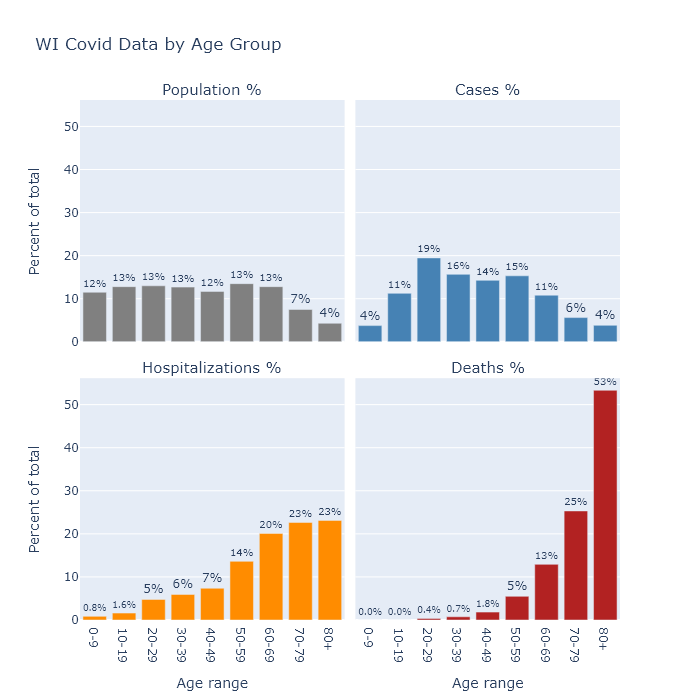
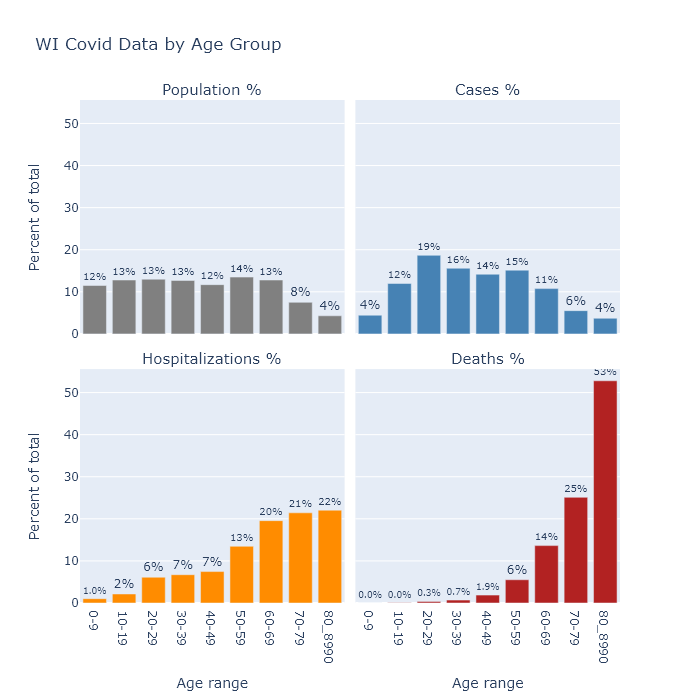
Immunity work

diff --git a/docs/assets/plotly/Age-Covid.html b/docs/assets/plotly/Age-Covid.html
@@ -2,6 +2,6 @@
 <head><meta charset="utf-8" /></head>
 <body>
     <div>                        <script type="text/javascript">window.PlotlyConfig = {MathJaxConfig: 'local'};</script>
-        <script src="https://cdn.plot.ly/plotly-latest.min.js"></script>                <div id="9917ca7c-2897-476b-b947-2d12e7032a52" class="plotly-graph-div" style="height:700px; width:700px;"></div>            <script type="text/javascript">                                    window.PLOTLYENV=window.PLOTLYENV || {};                                    if (document.getElementById("9917ca7c-2897-476b-b947-2d12e7032a52")) {                    Plotly.newPlot(                        "9917ca7c-2897-476b-b947-2d12e7032a52",                        [{"alignmentgroup": "True", "hovertemplate": "=Population %<br>Age range=%{x}<br>Percent of total=%{y}<br>text=%{text}<extra></extra>", "legendgroup": "Population %", "marker": {"color": "gray"}, "name": "Population %", "offsetgroup": "Population %", "orientation": "v", "showlegend": true, "text": ["12%", "13%", "13%", "13%", "12%", "13%", "13%", "7%", "4%"], "textposition": "outside", "type": "bar", "x": ["0-9", "10-19", "20-29", "30-39", "40-49", "50-59", "60-69", "70-79", "80+"], "xaxis": "x3", "y": [11.5, 12.800000000000002, 13.0, 12.700000000000001, 11.700000000000003, 13.499999999999998, 12.799999999999999, 7.499999999999997, 4.299999999999998], "yaxis": "y3"}, {"alignmentgroup": "True", "hovertemplate": "=Cases %<br>Age range=%{x}<br>Percent of total=%{y}<br>text=%{text}<extra></extra>", "legendgroup": "Cases %", "marker": {"color": "steelblue"}, "name": "Cases %", "offsetgroup": "Cases %", "orientation": "v", "showlegend": true, "text": ["4%", "11%", "19%", "16%", "14%", "15%", "11%", "6%", "4%"], "textposition": "outside", "type": "bar", "x": ["0-9", "10-19", "20-29", "30-39", "40-49", "50-59", "60-69", "70-79", "80+"], "xaxis": "x4", "y": [3.7581563813315637, 11.254654206296543, 19.473014819730146, 15.661404187864042, 14.26721595517216, 15.318098871930989, 10.821490451964905, 5.62329499373295, 3.822670131976701], "yaxis": "y4"}, {"alignmentgroup": "True", "hovertemplate": "=Hospitalizations %<br>Age range=%{x}<br>Percent of total=%{y}<br>text=%{text}<extra></extra>", "legendgroup": "Hospitalizations %", "marker": {"color": "darkorange"}, "name": "Hospitalizations %", "offsetgroup": "Hospitalizations %", "orientation": "v", "showlegend": true, "text": ["0.8%", "1.6%", "5%", "6%", "7%", "14%", "20%", "23%", "23%"], "textposition": "outside", "type": "bar", "x": ["0-9", "10-19", "20-29", "30-39", "40-49", "50-59", "60-69", "70-79", "80+"], "xaxis": "x", "y": [0.8454232334829349, 1.6073478760045925, 4.769857008662979, 5.933618620185785, 7.368750652332742, 13.615488988623317, 20.097067111992484, 22.64377413631145, 23.118672372403715], "yaxis": "y"}, {"alignmentgroup": "True", "hovertemplate": "=Deaths %<br>Age range=%{x}<br>Percent of total=%{y}<br>text=%{text}<extra></extra>", "legendgroup": "Deaths %", "marker": {"color": "firebrick"}, "name": "Deaths %", "offsetgroup": "Deaths %", "orientation": "v", "showlegend": true, "text": ["0.0%", "0.0%", "0.4%", "0.7%", "1.8%", "5%", "13%", "25%", "53%"], "textposition": "outside", "type": "bar", "x": ["0-9", "10-19", "20-29", "30-39", "40-49", "50-59", "60-69", "70-79", "80+"], "xaxis": "x2", "y": [0.0, 0.0, 0.3711952487008166, 0.7423904974016332, 1.8312298935906954, 5.4936896807720865, 12.91759465478842, 25.315515961395697, 53.328384063350654], "yaxis": "y2"}],                        {"annotations": [{"font": {"size": 15}, "showarrow": false, "text": "Hospitalizations %", "x": 0.245, "xanchor": "center", "xref": "paper", "y": 0.46499999999999997, "yanchor": "bottom", "yref": "paper"}, {"font": {"size": 15}, "showarrow": false, "text": "Deaths %", "x": 0.755, "xanchor": "center", "xref": "paper", "y": 0.46499999999999997, "yanchor": "bottom", "yref": "paper"}, {"font": {"size": 15}, "showarrow": false, "text": "Population %", "x": 0.245, "xanchor": "center", "xref": "paper", "y": 0.9999999999999999, "yanchor": "bottom", "yref": "paper"}, {"font": {"size": 15}, "showarrow": false, "text": "Cases %", "x": 0.755, "xanchor": "center", "xref": "paper", "y": 0.9999999999999999, "yanchor": "bottom", "yref": "paper"}], "barmode": "relative", "height": 700, "legend": {"title": {"text": ""}, "tracegroupgap": 0}, "showlegend": false, "template": {"data": {"bar": [{"error_x": {"color": "#2a3f5f"}, "error_y": {"color": "#2a3f5f"}, "marker": {"line": {"color": "#E5ECF6", "width": 0.5}}, "type": "bar"}], "barpolar": [{"marker": {"line": {"color": "#E5ECF6", "width": 0.5}}, "type": "barpolar"}], "carpet": [{"aaxis": {"endlinecolor": "#2a3f5f", "gridcolor": "white", "linecolor": "white", "minorgridcolor": "white", "startlinecolor": "#2a3f5f"}, "baxis": {"endlinecolor": "#2a3f5f", "gridcolor": "white", "linecolor": "white", "minorgridcolor": "white", "startlinecolor": "#2a3f5f"}, "type": "carpet"}], "choropleth": [{"colorbar": {"outlinewidth": 0, "ticks": ""}, "type": "choropleth"}], "contour": [{"colorbar": {"outlinewidth": 0, "ticks": ""}, "colorscale": [[0.0, "#0d0887"], [0.1111111111111111, "#46039f"], [0.2222222222222222, "#7201a8"], [0.3333333333333333, "#9c179e"], [0.4444444444444444, "#bd3786"], [0.5555555555555556, "#d8576b"], [0.6666666666666666, "#ed7953"], [0.7777777777777778, "#fb9f3a"], [0.8888888888888888, "#fdca26"], [1.0, "#f0f921"]], "type": "contour"}], "contourcarpet": [{"colorbar": {"outlinewidth": 0, "ticks": ""}, "type": "contourcarpet"}], "heatmap": [{"colorbar": {"outlinewidth": 0, "ticks": ""}, "colorscale": [[0.0, "#0d0887"], [0.1111111111111111, "#46039f"], [0.2222222222222222, "#7201a8"], [0.3333333333333333, "#9c179e"], [0.4444444444444444, "#bd3786"], [0.5555555555555556, "#d8576b"], [0.6666666666666666, "#ed7953"], [0.7777777777777778, "#fb9f3a"], [0.8888888888888888, "#fdca26"], [1.0, "#f0f921"]], "type": "heatmap"}], "heatmapgl": [{"colorbar": {"outlinewidth": 0, "ticks": ""}, "colorscale": [[0.0, "#0d0887"], [0.1111111111111111, "#46039f"], [0.2222222222222222, "#7201a8"], [0.3333333333333333, "#9c179e"], [0.4444444444444444, "#bd3786"], [0.5555555555555556, "#d8576b"], [0.6666666666666666, "#ed7953"], [0.7777777777777778, "#fb9f3a"], [0.8888888888888888, "#fdca26"], [1.0, "#f0f921"]], "type": "heatmapgl"}], "histogram": [{"marker": {"colorbar": {"outlinewidth": 0, "ticks": ""}}, "type": "histogram"}], "histogram2d": [{"colorbar": {"outlinewidth": 0, "ticks": ""}, "colorscale": [[0.0, "#0d0887"], [0.1111111111111111, "#46039f"], [0.2222222222222222, "#7201a8"], [0.3333333333333333, "#9c179e"], [0.4444444444444444, "#bd3786"], [0.5555555555555556, "#d8576b"], [0.6666666666666666, "#ed7953"], [0.7777777777777778, "#fb9f3a"], [0.8888888888888888, "#fdca26"], [1.0, "#f0f921"]], "type": "histogram2d"}], "histogram2dcontour": [{"colorbar": {"outlinewidth": 0, "ticks": ""}, "colorscale": [[0.0, "#0d0887"], [0.1111111111111111, "#46039f"], [0.2222222222222222, "#7201a8"], [0.3333333333333333, "#9c179e"], [0.4444444444444444, "#bd3786"], [0.5555555555555556, "#d8576b"], [0.6666666666666666, "#ed7953"], [0.7777777777777778, "#fb9f3a"], [0.8888888888888888, "#fdca26"], [1.0, "#f0f921"]], "type": "histogram2dcontour"}], "mesh3d": [{"colorbar": {"outlinewidth": 0, "ticks": ""}, "type": "mesh3d"}], "parcoords": [{"line": {"colorbar": {"outlinewidth": 0, "ticks": ""}}, "type": "parcoords"}], "pie": [{"automargin": true, "type": "pie"}], "scatter": [{"marker": {"colorbar": {"outlinewidth": 0, "ticks": ""}}, "type": "scatter"}], "scatter3d": [{"line": {"colorbar": {"outlinewidth": 0, "ticks": ""}}, "marker": {"colorbar": {"outlinewidth": 0, "ticks": ""}}, "type": "scatter3d"}], "scattercarpet": [{"marker": {"colorbar": {"outlinewidth": 0, "ticks": ""}}, "type": "scattercarpet"}], "scattergeo": [{"marker": {"colorbar": {"outlinewidth": 0, "ticks": ""}}, "type": "scattergeo"}], "scattergl": [{"marker": {"colorbar": {"outlinewidth": 0, "ticks": ""}}, "type": "scattergl"}], "scattermapbox": [{"marker": {"colorbar": {"outlinewidth": 0, "ticks": ""}}, "type": "scattermapbox"}], "scatterpolar": [{"marker": {"colorbar": {"outlinewidth": 0, "ticks": ""}}, "type": "scatterpolar"}], "scatterpolargl": [{"marker": {"colorbar": {"outlinewidth": 0, "ticks": ""}}, "type": "scatterpolargl"}], "scatterternary": [{"marker": {"colorbar": {"outlinewidth": 0, "ticks": ""}}, "type": "scatterternary"}], "surface": [{"colorbar": {"outlinewidth": 0, "ticks": ""}, "colorscale": [[0.0, "#0d0887"], [0.1111111111111111, "#46039f"], [0.2222222222222222, "#7201a8"], [0.3333333333333333, "#9c179e"], [0.4444444444444444, "#bd3786"], [0.5555555555555556, "#d8576b"], [0.6666666666666666, "#ed7953"], [0.7777777777777778, "#fb9f3a"], [0.8888888888888888, "#fdca26"], [1.0, "#f0f921"]], "type": "surface"}], "table": [{"cells": {"fill": {"color": "#EBF0F8"}, "line": {"color": "white"}}, "header": {"fill": {"color": "#C8D4E3"}, "line": {"color": "white"}}, "type": "table"}]}, "layout": {"annotationdefaults": {"arrowcolor": "#2a3f5f", "arrowhead": 0, "arrowwidth": 1}, "coloraxis": {"colorbar": {"outlinewidth": 0, "ticks": ""}}, "colorscale": {"diverging": [[0, "#8e0152"], [0.1, "#c51b7d"], [0.2, "#de77ae"], [0.3, "#f1b6da"], [0.4, "#fde0ef"], [0.5, "#f7f7f7"], [0.6, "#e6f5d0"], [0.7, "#b8e186"], [0.8, "#7fbc41"], [0.9, "#4d9221"], [1, "#276419"]], "sequential": [[0.0, "#0d0887"], [0.1111111111111111, "#46039f"], [0.2222222222222222, "#7201a8"], [0.3333333333333333, "#9c179e"], [0.4444444444444444, "#bd3786"], [0.5555555555555556, "#d8576b"], [0.6666666666666666, "#ed7953"], [0.7777777777777778, "#fb9f3a"], [0.8888888888888888, "#fdca26"], [1.0, "#f0f921"]], "sequentialminus": [[0.0, "#0d0887"], [0.1111111111111111, "#46039f"], [0.2222222222222222, "#7201a8"], [0.3333333333333333, "#9c179e"], [0.4444444444444444, "#bd3786"], [0.5555555555555556, "#d8576b"], [0.6666666666666666, "#ed7953"], [0.7777777777777778, "#fb9f3a"], [0.8888888888888888, "#fdca26"], [1.0, "#f0f921"]]}, "colorway": ["#636efa", "#EF553B", "#00cc96", "#ab63fa", "#FFA15A", "#19d3f3", "#FF6692", "#B6E880", "#FF97FF", "#FECB52"], "font": {"color": "#2a3f5f"}, "geo": {"bgcolor": "white", "lakecolor": "white", "landcolor": "#E5ECF6", "showlakes": true, "showland": true, "subunitcolor": "white"}, "hoverlabel": {"align": "left"}, "hovermode": "closest", "mapbox": {"style": "light"}, "paper_bgcolor": "white", "plot_bgcolor": "#E5ECF6", "polar": {"angularaxis": {"gridcolor": "white", "linecolor": "white", "ticks": ""}, "bgcolor": "#E5ECF6", "radialaxis": {"gridcolor": "white", "linecolor": "white", "ticks": ""}}, "scene": {"xaxis": {"backgroundcolor": "#E5ECF6", "gridcolor": "white", "gridwidth": 2, "linecolor": "white", "showbackground": true, "ticks": "", "zerolinecolor": "white"}, "yaxis": {"backgroundcolor": "#E5ECF6", "gridcolor": "white", "gridwidth": 2, "linecolor": "white", "showbackground": true, "ticks": "", "zerolinecolor": "white"}, "zaxis": {"backgroundcolor": "#E5ECF6", "gridcolor": "white", "gridwidth": 2, "linecolor": "white", "showbackground": true, "ticks": "", "zerolinecolor": "white"}}, "shapedefaults": {"line": {"color": "#2a3f5f"}}, "ternary": {"aaxis": {"gridcolor": "white", "linecolor": "white", "ticks": ""}, "baxis": {"gridcolor": "white", "linecolor": "white", "ticks": ""}, "bgcolor": "#E5ECF6", "caxis": {"gridcolor": "white", "linecolor": "white", "ticks": ""}}, "title": {"x": 0.05}, "xaxis": {"automargin": true, "gridcolor": "white", "linecolor": "white", "ticks": "", "title": {"standoff": 15}, "zerolinecolor": "white", "zerolinewidth": 2}, "yaxis": {"automargin": true, "gridcolor": "white", "linecolor": "white", "ticks": "", "title": {"standoff": 15}, "zerolinecolor": "white", "zerolinewidth": 2}}}, "title": {"text": "WI Covid Data by Age Group"}, "width": 700, "xaxis": {"anchor": "y", "domain": [0.0, 0.49], "title": {"text": "Age range"}}, "xaxis2": {"anchor": "y2", "domain": [0.51, 1.0], "matches": "x", "title": {"text": "Age range"}}, "xaxis3": {"anchor": "y3", "domain": [0.0, 0.49], "matches": "x", "showticklabels": false}, "xaxis4": {"anchor": "y4", "domain": [0.51, 1.0], "matches": "x", "showticklabels": false}, "yaxis": {"anchor": "x", "domain": [0.0, 0.46499999999999997], "title": {"text": "Percent of total"}}, "yaxis2": {"anchor": "x2", "domain": [0.0, 0.46499999999999997], "matches": "y", "showticklabels": false}, "yaxis3": {"anchor": "x3", "domain": [0.5349999999999999, 0.9999999999999999], "matches": "y", "title": {"text": "Percent of total"}}, "yaxis4": {"anchor": "x4", "domain": [0.5349999999999999, 0.9999999999999999], "matches": "y", "showticklabels": false}},                        {"responsive": true}                    )                };                            </script>        </div>
+        <script src="https://cdn.plot.ly/plotly-latest.min.js"></script>                <div id="8a8da3e6-ef29-4c8c-ae2a-e675b4a42599" class="plotly-graph-div" style="height:700px; width:700px;"></div>            <script type="text/javascript">                                    window.PLOTLYENV=window.PLOTLYENV || {};                                    if (document.getElementById("8a8da3e6-ef29-4c8c-ae2a-e675b4a42599")) {                    Plotly.newPlot(                        "8a8da3e6-ef29-4c8c-ae2a-e675b4a42599",                        [{"alignmentgroup": "True", "hovertemplate": "=Population %<br>Age range=%{x}<br>Percent of total=%{y}<br>text=%{text}<extra></extra>", "legendgroup": "Population %", "marker": {"color": "gray"}, "name": "Population %", "offsetgroup": "Population %", "orientation": "v", "showlegend": true, "text": ["12%", "13%", "13%", "13%", "12%", "14%", "13%", "8%", "4%"], "textposition": "outside", "type": "bar", "x": ["0-9", "10-19", "20-29", "30-39", "40-49", "50-59", "60-69", "70-79", "80_8990"], "xaxis": "x3", "y": [11.5, 12.8, 13.0, 12.7, 11.7, 13.5, 12.8, 7.5, 4.300000000000001], "yaxis": "y3"}, {"alignmentgroup": "True", "hovertemplate": "=Cases %<br>Age range=%{x}<br>Percent of total=%{y}<br>text=%{text}<extra></extra>", "legendgroup": "Cases %", "marker": {"color": "steelblue"}, "name": "Cases %", "offsetgroup": "Cases %", "orientation": "v", "showlegend": true, "text": ["4%", "12%", "19%", "16%", "14%", "15%", "11%", "6%", "4%"], "textposition": "outside", "type": "bar", "x": ["0-9", "10-19", "20-29", "30-39", "40-49", "50-59", "60-69", "70-79", "80_8990"], "xaxis": "x4", "y": [4.440024001907001, 11.976129610297805, 18.667565368207338, 15.59482808223119, 14.17624961983281, 15.147504870249964, 10.762224943899652, 5.522904559540347, 3.712568943833894], "yaxis": "y4"}, {"alignmentgroup": "True", "hovertemplate": "=Hospitalizations %<br>Age range=%{x}<br>Percent of total=%{y}<br>text=%{text}<extra></extra>", "legendgroup": "Hospitalizations %", "marker": {"color": "darkorange"}, "name": "Hospitalizations %", "offsetgroup": "Hospitalizations %", "orientation": "v", "showlegend": true, "text": ["1.0%", "2%", "6%", "7%", "7%", "13%", "20%", "21%", "22%"], "textposition": "outside", "type": "bar", "x": ["0-9", "10-19", "20-29", "30-39", "40-49", "50-59", "60-69", "70-79", "80_8990"], "xaxis": "x", "y": [1.0222077073807967, 2.1423905943827566, 6.12018288700196, 6.721097322011757, 7.468974526453298, 13.474853037230568, 19.568909209666884, 21.427171783148268, 22.05421293272371], "yaxis": "y"}, {"alignmentgroup": "True", "hovertemplate": "=Deaths %<br>Age range=%{x}<br>Percent of total=%{y}<br>text=%{text}<extra></extra>", "legendgroup": "Deaths %", "marker": {"color": "firebrick"}, "name": "Deaths %", "offsetgroup": "Deaths %", "orientation": "v", "showlegend": true, "text": ["0.0%", "0.0%", "0.3%", "0.7%", "1.9%", "6%", "14%", "25%", "53%"], "textposition": "outside", "type": "bar", "x": ["0-9", "10-19", "20-29", "30-39", "40-49", "50-59", "60-69", "70-79", "80_8990"], "xaxis": "x2", "y": [0.0, 0.042924595793389614, 0.3290885677493204, 0.6867935326942338, 1.8743740163113465, 5.522964658749464, 13.6357132637001, 25.110888539132926, 52.79725282586922], "yaxis": "y2"}],                        {"annotations": [{"font": {"size": 15}, "showarrow": false, "text": "Hospitalizations %", "x": 0.245, "xanchor": "center", "xref": "paper", "y": 0.46499999999999997, "yanchor": "bottom", "yref": "paper"}, {"font": {"size": 15}, "showarrow": false, "text": "Deaths %", "x": 0.755, "xanchor": "center", "xref": "paper", "y": 0.46499999999999997, "yanchor": "bottom", "yref": "paper"}, {"font": {"size": 15}, "showarrow": false, "text": "Population %", "x": 0.245, "xanchor": "center", "xref": "paper", "y": 0.9999999999999999, "yanchor": "bottom", "yref": "paper"}, {"font": {"size": 15}, "showarrow": false, "text": "Cases %", "x": 0.755, "xanchor": "center", "xref": "paper", "y": 0.9999999999999999, "yanchor": "bottom", "yref": "paper"}], "barmode": "relative", "height": 700, "legend": {"title": {"text": ""}, "tracegroupgap": 0}, "showlegend": false, "template": {"data": {"bar": [{"error_x": {"color": "#2a3f5f"}, "error_y": {"color": "#2a3f5f"}, "marker": {"line": {"color": "#E5ECF6", "width": 0.5}}, "type": "bar"}], "barpolar": [{"marker": {"line": {"color": "#E5ECF6", "width": 0.5}}, "type": "barpolar"}], "carpet": [{"aaxis": {"endlinecolor": "#2a3f5f", "gridcolor": "white", "linecolor": "white", "minorgridcolor": "white", "startlinecolor": "#2a3f5f"}, "baxis": {"endlinecolor": "#2a3f5f", "gridcolor": "white", "linecolor": "white", "minorgridcolor": "white", "startlinecolor": "#2a3f5f"}, "type": "carpet"}], "choropleth": [{"colorbar": {"outlinewidth": 0, "ticks": ""}, "type": "choropleth"}], "contour": [{"colorbar": {"outlinewidth": 0, "ticks": ""}, "colorscale": [[0.0, "#0d0887"], [0.1111111111111111, "#46039f"], [0.2222222222222222, "#7201a8"], [0.3333333333333333, "#9c179e"], [0.4444444444444444, "#bd3786"], [0.5555555555555556, "#d8576b"], [0.6666666666666666, "#ed7953"], [0.7777777777777778, "#fb9f3a"], [0.8888888888888888, "#fdca26"], [1.0, "#f0f921"]], "type": "contour"}], "contourcarpet": [{"colorbar": {"outlinewidth": 0, "ticks": ""}, "type": "contourcarpet"}], "heatmap": [{"colorbar": {"outlinewidth": 0, "ticks": ""}, "colorscale": [[0.0, "#0d0887"], [0.1111111111111111, "#46039f"], [0.2222222222222222, "#7201a8"], [0.3333333333333333, "#9c179e"], [0.4444444444444444, "#bd3786"], [0.5555555555555556, "#d8576b"], [0.6666666666666666, "#ed7953"], [0.7777777777777778, "#fb9f3a"], [0.8888888888888888, "#fdca26"], [1.0, "#f0f921"]], "type": "heatmap"}], "heatmapgl": [{"colorbar": {"outlinewidth": 0, "ticks": ""}, "colorscale": [[0.0, "#0d0887"], [0.1111111111111111, "#46039f"], [0.2222222222222222, "#7201a8"], [0.3333333333333333, "#9c179e"], [0.4444444444444444, "#bd3786"], [0.5555555555555556, "#d8576b"], [0.6666666666666666, "#ed7953"], [0.7777777777777778, "#fb9f3a"], [0.8888888888888888, "#fdca26"], [1.0, "#f0f921"]], "type": "heatmapgl"}], "histogram": [{"marker": {"colorbar": {"outlinewidth": 0, "ticks": ""}}, "type": "histogram"}], "histogram2d": [{"colorbar": {"outlinewidth": 0, "ticks": ""}, "colorscale": [[0.0, "#0d0887"], [0.1111111111111111, "#46039f"], [0.2222222222222222, "#7201a8"], [0.3333333333333333, "#9c179e"], [0.4444444444444444, "#bd3786"], [0.5555555555555556, "#d8576b"], [0.6666666666666666, "#ed7953"], [0.7777777777777778, "#fb9f3a"], [0.8888888888888888, "#fdca26"], [1.0, "#f0f921"]], "type": "histogram2d"}], "histogram2dcontour": [{"colorbar": {"outlinewidth": 0, "ticks": ""}, "colorscale": [[0.0, "#0d0887"], [0.1111111111111111, "#46039f"], [0.2222222222222222, "#7201a8"], [0.3333333333333333, "#9c179e"], [0.4444444444444444, "#bd3786"], [0.5555555555555556, "#d8576b"], [0.6666666666666666, "#ed7953"], [0.7777777777777778, "#fb9f3a"], [0.8888888888888888, "#fdca26"], [1.0, "#f0f921"]], "type": "histogram2dcontour"}], "mesh3d": [{"colorbar": {"outlinewidth": 0, "ticks": ""}, "type": "mesh3d"}], "parcoords": [{"line": {"colorbar": {"outlinewidth": 0, "ticks": ""}}, "type": "parcoords"}], "pie": [{"automargin": true, "type": "pie"}], "scatter": [{"marker": {"colorbar": {"outlinewidth": 0, "ticks": ""}}, "type": "scatter"}], "scatter3d": [{"line": {"colorbar": {"outlinewidth": 0, "ticks": ""}}, "marker": {"colorbar": {"outlinewidth": 0, "ticks": ""}}, "type": "scatter3d"}], "scattercarpet": [{"marker": {"colorbar": {"outlinewidth": 0, "ticks": ""}}, "type": "scattercarpet"}], "scattergeo": [{"marker": {"colorbar": {"outlinewidth": 0, "ticks": ""}}, "type": "scattergeo"}], "scattergl": [{"marker": {"colorbar": {"outlinewidth": 0, "ticks": ""}}, "type": "scattergl"}], "scattermapbox": [{"marker": {"colorbar": {"outlinewidth": 0, "ticks": ""}}, "type": "scattermapbox"}], "scatterpolar": [{"marker": {"colorbar": {"outlinewidth": 0, "ticks": ""}}, "type": "scatterpolar"}], "scatterpolargl": [{"marker": {"colorbar": {"outlinewidth": 0, "ticks": ""}}, "type": "scatterpolargl"}], "scatterternary": [{"marker": {"colorbar": {"outlinewidth": 0, "ticks": ""}}, "type": "scatterternary"}], "surface": [{"colorbar": {"outlinewidth": 0, "ticks": ""}, "colorscale": [[0.0, "#0d0887"], [0.1111111111111111, "#46039f"], [0.2222222222222222, "#7201a8"], [0.3333333333333333, "#9c179e"], [0.4444444444444444, "#bd3786"], [0.5555555555555556, "#d8576b"], [0.6666666666666666, "#ed7953"], [0.7777777777777778, "#fb9f3a"], [0.8888888888888888, "#fdca26"], [1.0, "#f0f921"]], "type": "surface"}], "table": [{"cells": {"fill": {"color": "#EBF0F8"}, "line": {"color": "white"}}, "header": {"fill": {"color": "#C8D4E3"}, "line": {"color": "white"}}, "type": "table"}]}, "layout": {"annotationdefaults": {"arrowcolor": "#2a3f5f", "arrowhead": 0, "arrowwidth": 1}, "autotypenumbers": "strict", "coloraxis": {"colorbar": {"outlinewidth": 0, "ticks": ""}}, "colorscale": {"diverging": [[0, "#8e0152"], [0.1, "#c51b7d"], [0.2, "#de77ae"], [0.3, "#f1b6da"], [0.4, "#fde0ef"], [0.5, "#f7f7f7"], [0.6, "#e6f5d0"], [0.7, "#b8e186"], [0.8, "#7fbc41"], [0.9, "#4d9221"], [1, "#276419"]], "sequential": [[0.0, "#0d0887"], [0.1111111111111111, "#46039f"], [0.2222222222222222, "#7201a8"], [0.3333333333333333, "#9c179e"], [0.4444444444444444, "#bd3786"], [0.5555555555555556, "#d8576b"], [0.6666666666666666, "#ed7953"], [0.7777777777777778, "#fb9f3a"], [0.8888888888888888, "#fdca26"], [1.0, "#f0f921"]], "sequentialminus": [[0.0, "#0d0887"], [0.1111111111111111, "#46039f"], [0.2222222222222222, "#7201a8"], [0.3333333333333333, "#9c179e"], [0.4444444444444444, "#bd3786"], [0.5555555555555556, "#d8576b"], [0.6666666666666666, "#ed7953"], [0.7777777777777778, "#fb9f3a"], [0.8888888888888888, "#fdca26"], [1.0, "#f0f921"]]}, "colorway": ["#636efa", "#EF553B", "#00cc96", "#ab63fa", "#FFA15A", "#19d3f3", "#FF6692", "#B6E880", "#FF97FF", "#FECB52"], "font": {"color": "#2a3f5f"}, "geo": {"bgcolor": "white", "lakecolor": "white", "landcolor": "#E5ECF6", "showlakes": true, "showland": true, "subunitcolor": "white"}, "hoverlabel": {"align": "left"}, "hovermode": "closest", "mapbox": {"style": "light"}, "paper_bgcolor": "white", "plot_bgcolor": "#E5ECF6", "polar": {"angularaxis": {"gridcolor": "white", "linecolor": "white", "ticks": ""}, "bgcolor": "#E5ECF6", "radialaxis": {"gridcolor": "white", "linecolor": "white", "ticks": ""}}, "scene": {"xaxis": {"backgroundcolor": "#E5ECF6", "gridcolor": "white", "gridwidth": 2, "linecolor": "white", "showbackground": true, "ticks": "", "zerolinecolor": "white"}, "yaxis": {"backgroundcolor": "#E5ECF6", "gridcolor": "white", "gridwidth": 2, "linecolor": "white", "showbackground": true, "ticks": "", "zerolinecolor": "white"}, "zaxis": {"backgroundcolor": "#E5ECF6", "gridcolor": "white", "gridwidth": 2, "linecolor": "white", "showbackground": true, "ticks": "", "zerolinecolor": "white"}}, "shapedefaults": {"line": {"color": "#2a3f5f"}}, "ternary": {"aaxis": {"gridcolor": "white", "linecolor": "white", "ticks": ""}, "baxis": {"gridcolor": "white", "linecolor": "white", "ticks": ""}, "bgcolor": "#E5ECF6", "caxis": {"gridcolor": "white", "linecolor": "white", "ticks": ""}}, "title": {"x": 0.05}, "xaxis": {"automargin": true, "gridcolor": "white", "linecolor": "white", "ticks": "", "title": {"standoff": 15}, "zerolinecolor": "white", "zerolinewidth": 2}, "yaxis": {"automargin": true, "gridcolor": "white", "linecolor": "white", "ticks": "", "title": {"standoff": 15}, "zerolinecolor": "white", "zerolinewidth": 2}}}, "title": {"text": "WI Covid Data by Age Group"}, "width": 700, "xaxis": {"anchor": "y", "domain": [0.0, 0.49], "title": {"text": "Age range"}}, "xaxis2": {"anchor": "y2", "domain": [0.51, 1.0], "matches": "x", "title": {"text": "Age range"}}, "xaxis3": {"anchor": "y3", "domain": [0.0, 0.49], "matches": "x", "showticklabels": false}, "xaxis4": {"anchor": "y4", "domain": [0.51, 1.0], "matches": "x", "showticklabels": false}, "yaxis": {"anchor": "x", "domain": [0.0, 0.46499999999999997], "title": {"text": "Percent of total"}}, "yaxis2": {"anchor": "x2", "domain": [0.0, 0.46499999999999997], "matches": "y", "showticklabels": false}, "yaxis3": {"anchor": "x3", "domain": [0.5349999999999999, 0.9999999999999999], "matches": "y", "title": {"text": "Percent of total"}}, "yaxis4": {"anchor": "x4", "domain": [0.5349999999999999, 0.9999999999999999], "matches": "y", "showticklabels": false}},                        {"responsive": true}                    )                };                            </script>        </div>
 </body>
 </html>

diff --git a/docs/assets/plotly/Immune-Age.html b/docs/assets/plotly/Immune-Age.html
@@ -1,0 +1,7 @@
+<html>
+<head><meta charset="utf-8" /></head>
+<body>
+    <div>                        <script type="text/javascript">window.PlotlyConfig = {MathJaxConfig: 'local'};</script>
+        <script src="https://cdn.plot.ly/plotly-latest.min.js"></script>                <div id="b234c150-d046-4712-80d0-b249274c89f9" class="plotly-graph-div" style="height:700px; width:700px;"></div>            <script type="text/javascript">                                    window.PLOTLYENV=window.PLOTLYENV || {};                                    if (document.getElementById("b234c150-d046-4712-80d0-b249274c89f9")) {                    Plotly.newPlot(                        "b234c150-d046-4712-80d0-b249274c89f9",                        [{"alignmentgroup": "True", "hovertemplate": "=Vax only %<br>Age group=%{x}<br>Percent of total=%{y}<br>Label=%{text}<extra></extra>", "legendgroup": "Vax only %", "marker": {"color": "seagreen"}, "name": "Vax only %", "offsetgroup": "Vax only %", "orientation": "v", "showlegend": true, "text": ["", "", "", "", "", "", ""], "textposition": "outside", "type": "bar", "x": ["<18", "18-24", "25-34", "35-44", "45-54", "55-64", "65+"], "xaxis": "x", "y": [5.399410109253805, 19.325796398050556, 25.34057723824802, 31.944734714497933, 33.14435045495925, 44.65150184121229, 64.12566165815878], "yaxis": "y"}, {"alignmentgroup": "True", "hovertemplate": "=Vax+Inf %<br>Age group=%{x}<br>Percent of total=%{y}<br>Label=%{text}<extra></extra>", "legendgroup": "Vax+Inf %", "marker": {"color": "darkslategray"}, "name": "Vax+Inf %", "offsetgroup": "Vax+Inf %", "orientation": "v", "showlegend": true, "text": ["", "", "", "", "", "", ""], "textposition": "outside", "type": "bar", "x": ["<18", "18-24", "25-34", "35-44", "45-54", "55-64", "65+"], "xaxis": "x", "y": [1.169030372532977, 17.159043871089423, 17.846914998317292, 19.99304495491905, 18.71438408399059, 19.938813500587536, 21.671920770183146], "yaxis": "y"}, {"alignmentgroup": "True", "hovertemplate": "=Inf Only %<br>Age group=%{x}<br>Percent of total=%{y}<br>Label=%{text}<extra></extra>", "legendgroup": "Inf Only %", "marker": {"color": "steelblue"}, "name": "Inf Only %", "offsetgroup": "Inf Only %", "orientation": "v", "showlegend": true, "text": ["23%", "66%", "67%", "70%", "69%", "76%", "89%"], "textposition": "outside", "type": "bar", "x": ["<18", "18-24", "25-34", "35-44", "45-54", "55-64", "65+"], "xaxis": "x", "y": [16.628655025919034, 29.871568691583846, 23.47735291832489, 18.501178483538304, 17.372852232843687, 10.930850775047407, 3.5874398747202427], "yaxis": "y"}],                        {"barmode": "relative", "height": 700, "legend": {"title": {"text": ""}, "tracegroupgap": 0}, "showlegend": true, "template": {"data": {"bar": [{"error_x": {"color": "#2a3f5f"}, "error_y": {"color": "#2a3f5f"}, "marker": {"line": {"color": "#E5ECF6", "width": 0.5}}, "type": "bar"}], "barpolar": [{"marker": {"line": {"color": "#E5ECF6", "width": 0.5}}, "type": "barpolar"}], "carpet": [{"aaxis": {"endlinecolor": "#2a3f5f", "gridcolor": "white", "linecolor": "white", "minorgridcolor": "white", "startlinecolor": "#2a3f5f"}, "baxis": {"endlinecolor": "#2a3f5f", "gridcolor": "white", "linecolor": "white", "minorgridcolor": "white", "startlinecolor": "#2a3f5f"}, "type": "carpet"}], "choropleth": [{"colorbar": {"outlinewidth": 0, "ticks": ""}, "type": "choropleth"}], "contour": [{"colorbar": {"outlinewidth": 0, "ticks": ""}, "colorscale": [[0.0, "#0d0887"], [0.1111111111111111, "#46039f"], [0.2222222222222222, "#7201a8"], [0.3333333333333333, "#9c179e"], [0.4444444444444444, "#bd3786"], [0.5555555555555556, "#d8576b"], [0.6666666666666666, "#ed7953"], [0.7777777777777778, "#fb9f3a"], [0.8888888888888888, "#fdca26"], [1.0, "#f0f921"]], "type": "contour"}], "contourcarpet": [{"colorbar": {"outlinewidth": 0, "ticks": ""}, "type": "contourcarpet"}], "heatmap": [{"colorbar": {"outlinewidth": 0, "ticks": ""}, "colorscale": [[0.0, "#0d0887"], [0.1111111111111111, "#46039f"], [0.2222222222222222, "#7201a8"], [0.3333333333333333, "#9c179e"], [0.4444444444444444, "#bd3786"], [0.5555555555555556, "#d8576b"], [0.6666666666666666, "#ed7953"], [0.7777777777777778, "#fb9f3a"], [0.8888888888888888, "#fdca26"], [1.0, "#f0f921"]], "type": "heatmap"}], "heatmapgl": [{"colorbar": {"outlinewidth": 0, "ticks": ""}, "colorscale": [[0.0, "#0d0887"], [0.1111111111111111, "#46039f"], [0.2222222222222222, "#7201a8"], [0.3333333333333333, "#9c179e"], [0.4444444444444444, "#bd3786"], [0.5555555555555556, "#d8576b"], [0.6666666666666666, "#ed7953"], [0.7777777777777778, "#fb9f3a"], [0.8888888888888888, "#fdca26"], [1.0, "#f0f921"]], "type": "heatmapgl"}], "histogram": [{"marker": {"colorbar": {"outlinewidth": 0, "ticks": ""}}, "type": "histogram"}], "histogram2d": [{"colorbar": {"outlinewidth": 0, "ticks": ""}, "colorscale": [[0.0, "#0d0887"], [0.1111111111111111, "#46039f"], [0.2222222222222222, "#7201a8"], [0.3333333333333333, "#9c179e"], [0.4444444444444444, "#bd3786"], [0.5555555555555556, "#d8576b"], [0.6666666666666666, "#ed7953"], [0.7777777777777778, "#fb9f3a"], [0.8888888888888888, "#fdca26"], [1.0, "#f0f921"]], "type": "histogram2d"}], "histogram2dcontour": [{"colorbar": {"outlinewidth": 0, "ticks": ""}, "colorscale": [[0.0, "#0d0887"], [0.1111111111111111, "#46039f"], [0.2222222222222222, "#7201a8"], [0.3333333333333333, "#9c179e"], [0.4444444444444444, "#bd3786"], [0.5555555555555556, "#d8576b"], [0.6666666666666666, "#ed7953"], [0.7777777777777778, "#fb9f3a"], [0.8888888888888888, "#fdca26"], [1.0, "#f0f921"]], "type": "histogram2dcontour"}], "mesh3d": [{"colorbar": {"outlinewidth": 0, "ticks": ""}, "type": "mesh3d"}], "parcoords": [{"line": {"colorbar": {"outlinewidth": 0, "ticks": ""}}, "type": "parcoords"}], "pie": [{"automargin": true, "type": "pie"}], "scatter": [{"marker": {"colorbar": {"outlinewidth": 0, "ticks": ""}}, "type": "scatter"}], "scatter3d": [{"line": {"colorbar": {"outlinewidth": 0, "ticks": ""}}, "marker": {"colorbar": {"outlinewidth": 0, "ticks": ""}}, "type": "scatter3d"}], "scattercarpet": [{"marker": {"colorbar": {"outlinewidth": 0, "ticks": ""}}, "type": "scattercarpet"}], "scattergeo": [{"marker": {"colorbar": {"outlinewidth": 0, "ticks": ""}}, "type": "scattergeo"}], "scattergl": [{"marker": {"colorbar": {"outlinewidth": 0, "ticks": ""}}, "type": "scattergl"}], "scattermapbox": [{"marker": {"colorbar": {"outlinewidth": 0, "ticks": ""}}, "type": "scattermapbox"}], "scatterpolar": [{"marker": {"colorbar": {"outlinewidth": 0, "ticks": ""}}, "type": "scatterpolar"}], "scatterpolargl": [{"marker": {"colorbar": {"outlinewidth": 0, "ticks": ""}}, "type": "scatterpolargl"}], "scatterternary": [{"marker": {"colorbar": {"outlinewidth": 0, "ticks": ""}}, "type": "scatterternary"}], "surface": [{"colorbar": {"outlinewidth": 0, "ticks": ""}, "colorscale": [[0.0, "#0d0887"], [0.1111111111111111, "#46039f"], [0.2222222222222222, "#7201a8"], [0.3333333333333333, "#9c179e"], [0.4444444444444444, "#bd3786"], [0.5555555555555556, "#d8576b"], [0.6666666666666666, "#ed7953"], [0.7777777777777778, "#fb9f3a"], [0.8888888888888888, "#fdca26"], [1.0, "#f0f921"]], "type": "surface"}], "table": [{"cells": {"fill": {"color": "#EBF0F8"}, "line": {"color": "white"}}, "header": {"fill": {"color": "#C8D4E3"}, "line": {"color": "white"}}, "type": "table"}]}, "layout": {"annotationdefaults": {"arrowcolor": "#2a3f5f", "arrowhead": 0, "arrowwidth": 1}, "autotypenumbers": "strict", "coloraxis": {"colorbar": {"outlinewidth": 0, "ticks": ""}}, "colorscale": {"diverging": [[0, "#8e0152"], [0.1, "#c51b7d"], [0.2, "#de77ae"], [0.3, "#f1b6da"], [0.4, "#fde0ef"], [0.5, "#f7f7f7"], [0.6, "#e6f5d0"], [0.7, "#b8e186"], [0.8, "#7fbc41"], [0.9, "#4d9221"], [1, "#276419"]], "sequential": [[0.0, "#0d0887"], [0.1111111111111111, "#46039f"], [0.2222222222222222, "#7201a8"], [0.3333333333333333, "#9c179e"], [0.4444444444444444, "#bd3786"], [0.5555555555555556, "#d8576b"], [0.6666666666666666, "#ed7953"], [0.7777777777777778, "#fb9f3a"], [0.8888888888888888, "#fdca26"], [1.0, "#f0f921"]], "sequentialminus": [[0.0, "#0d0887"], [0.1111111111111111, "#46039f"], [0.2222222222222222, "#7201a8"], [0.3333333333333333, "#9c179e"], [0.4444444444444444, "#bd3786"], [0.5555555555555556, "#d8576b"], [0.6666666666666666, "#ed7953"], [0.7777777777777778, "#fb9f3a"], [0.8888888888888888, "#fdca26"], [1.0, "#f0f921"]]}, "colorway": ["#636efa", "#EF553B", "#00cc96", "#ab63fa", "#FFA15A", "#19d3f3", "#FF6692", "#B6E880", "#FF97FF", "#FECB52"], "font": {"color": "#2a3f5f"}, "geo": {"bgcolor": "white", "lakecolor": "white", "landcolor": "#E5ECF6", "showlakes": true, "showland": true, "subunitcolor": "white"}, "hoverlabel": {"align": "left"}, "hovermode": "closest", "mapbox": {"style": "light"}, "paper_bgcolor": "white", "plot_bgcolor": "#E5ECF6", "polar": {"angularaxis": {"gridcolor": "white", "linecolor": "white", "ticks": ""}, "bgcolor": "#E5ECF6", "radialaxis": {"gridcolor": "white", "linecolor": "white", "ticks": ""}}, "scene": {"xaxis": {"backgroundcolor": "#E5ECF6", "gridcolor": "white", "gridwidth": 2, "linecolor": "white", "showbackground": true, "ticks": "", "zerolinecolor": "white"}, "yaxis": {"backgroundcolor": "#E5ECF6", "gridcolor": "white", "gridwidth": 2, "linecolor": "white", "showbackground": true, "ticks": "", "zerolinecolor": "white"}, "zaxis": {"backgroundcolor": "#E5ECF6", "gridcolor": "white", "gridwidth": 2, "linecolor": "white", "showbackground": true, "ticks": "", "zerolinecolor": "white"}}, "shapedefaults": {"line": {"color": "#2a3f5f"}}, "ternary": {"aaxis": {"gridcolor": "white", "linecolor": "white", "ticks": ""}, "baxis": {"gridcolor": "white", "linecolor": "white", "ticks": ""}, "bgcolor": "#E5ECF6", "caxis": {"gridcolor": "white", "linecolor": "white", "ticks": ""}}, "title": {"x": 0.05}, "xaxis": {"automargin": true, "gridcolor": "white", "linecolor": "white", "ticks": "", "title": {"standoff": 15}, "zerolinecolor": "white", "zerolinewidth": 2}, "yaxis": {"automargin": true, "gridcolor": "white", "linecolor": "white", "ticks": "", "title": {"standoff": 15}, "zerolinecolor": "white", "zerolinewidth": 2}}}, "title": {"text": "Estimated Immunity by Age Group"}, "width": 700, "xaxis": {"anchor": "y", "domain": [0.0, 1.0], "title": {"text": "Age group"}}, "yaxis": {"anchor": "x", "domain": [0.0, 1.0], "title": {"text": "Percent of total"}}},                        {"responsive": true}                    )                };                            </script>        </div>
+</body>
+</html>

diff --git a/BlogNumberImmune.py b/BlogNumberImmune.py
@@ -111,7 +111,106 @@ cdc_factor = vax_cdc.people_vaccinated / age_total['Vaccinated #'].sum()
 
 
 # Estimate total immunity by age group
-age_total['Immune %'] = age_total['Vaccinated %'] + (100-age_total['Vaccinated %']) * age_total['Est Infected %']/100
+age_total['Vax+Inf %'] = age_total['Vaccinated %'] * age_total['Est Infected %']/100
+age_total['Vax only %'] = age_total['Vaccinated %'] - age_total['Vax+Inf %']
+age_total['Inf only %'] = (100-age_total['Vaccinated %']) * age_total['Est Infected %']/100
+age_total['Immune %'] = age_total['Vaccinated %'] + age_total['Inf Only %']
+
+
+#%% Bar plots for age groups
+
+
+# perc_cols = ['Vaccinated %','Immune %', 'Est Infected %']
+# perc_cols = ['Vaccinated %', 'Est Infected %', 'Immune %']
+perc_cols = ['Vax only %', 'Vax+Inf %', 'Inf Only %']
+col_colors = ['seagreen', 'darkslategray', 'steelblue']
+
+# reformat to "long" for use in the bar graph
+age_total = age_total.reindex(['<18', '18-24', '25-34', '35-44', '45-54', '55-64', '65+'])
+age_long = age_total.reset_index().melt(id_vars='Age group', value_vars=perc_cols, value_name='Percentage')
+
+# create text labels - strings from rounding each percentage value to nearest whole
+def perc_to_text(p):
+    if p < 2:
+        t = '{:0.1f}'.format(p) + '%'
+    else:
+        t = '{:0.0f}'.format(p) + '%'
+    return t
+
+age_long['Label'] = ''
+age_long.iloc[14:,-1] = age_total['Immune %'].apply(perc_to_text)
+
+
+
+# # horizontal layout
+# fig = px.bar(
+#     age_covid_long, 
+#     y='Age range', 
+#     x='Percentage', 
+#     facet_col='variable', 
+#     facet_col_wrap=2,
+#     color='variable',
+#     color_discrete_sequence=col_colors,
+#     orientation='h',
+#     category_orders={'Age range': age_ranges},
+#     labels={'variable': ''},
+#     title='WI Covid Data by Age Group',
+#     width=700,
+#     height=600,
+#     )
+
+# vertical layout
+fig = px.bar(
+    age_long, 
+    x='Age group', 
+    y='Percentage', 
+    text='Label',
+    # facet_col='variable', 
+    # facet_col_wrap=2,
+    color='variable',
+    color_discrete_sequence=col_colors,
+    # barmode='overlay',
+    labels={'variable': '', 'Percentage':'Percent of total'},
+    title='Estimated Immunity by Age Group',
+    width=700,
+    height=700,
+    )
+
+
+# take out 'variable=' part of the axis titles
+fig.for_each_annotation(
+    lambda a: a.update(
+        text=a.text.split("=")[-1],
+        font=dict(size=15),
+        )
+    )
+
+fig.update_traces(textposition='outside')
+
+
+# other layout
+fig.update_layout(showlegend=True)
+
+save_html='.\\docs\\assets\\plotly\\Immune-Age.html'
+fig.write_html(
+    file=save_html,
+    default_height=700,
+    default_width=700,
+    include_plotlyjs='cdn',
+)
+os.startfile(save_html)
+
+save_png = '.\\docs\\assets\\Immune-Age.png'
+fig.write_image(
+    save_png,
+    width=700,
+    height=700,
+    engine='kaleido',
+)
+os.startfile(save_png)
+
+
+
 
 #%% Estimate total 
 
@@ -150,6 +249,6 @@ vax_county = vax_county[col_rename.keys()]
 vax_county = vax_county.rename(columns=col_rename)
 
 # remove 'County' from the end of every county name
-vax_county.County.apply(lambda s: s.replace())
+# vax_county.County.apply(lambda s: s.replace())
 
 # update_date = format_date(allocation_dash.worksheets[2].data.iloc[0,2])

diff --git a/BlogAge.py b/BlogAge.py
@@ -92,8 +92,8 @@ age_data = pd.DataFrame(
 #%% Sum up the 80-89 and 90+ rows to match with the demographic data
 
 age_covid = age_data.iloc[0:9, 1:]
-age_covid.iloc[8] = age_data.iloc[8:].sum()
 age_covid.insert(0, 'Age range', age_ranges)
+age_covid.iloc[8] = age_data.iloc[8:].sum()
 age_covid.insert(1, 'Population', pop_age_coarse['Population'])
 age_covid.insert(2, 'Population %', pop_age_coarse['Percent'])
 

diff --git a/BlogVaccinesHalfway.py b/BlogVaccinesHalfway.py
@@ -32,6 +32,7 @@ avg7 = daily.rolling(7).mean()
 
 vax_wi.plot(x='date', y=['total_distributed', 'total_vaccinations'])
 vax_wi.plot(x='date', y='share_doses_used')
+vax_wi.plot(x='date', y=['people_fully_vaccinated_per_hundred', 'people_vaccinated_per_hundred'])
 
 daily.plot(y=['total_distributed', 'total_vaccinations'])
 
